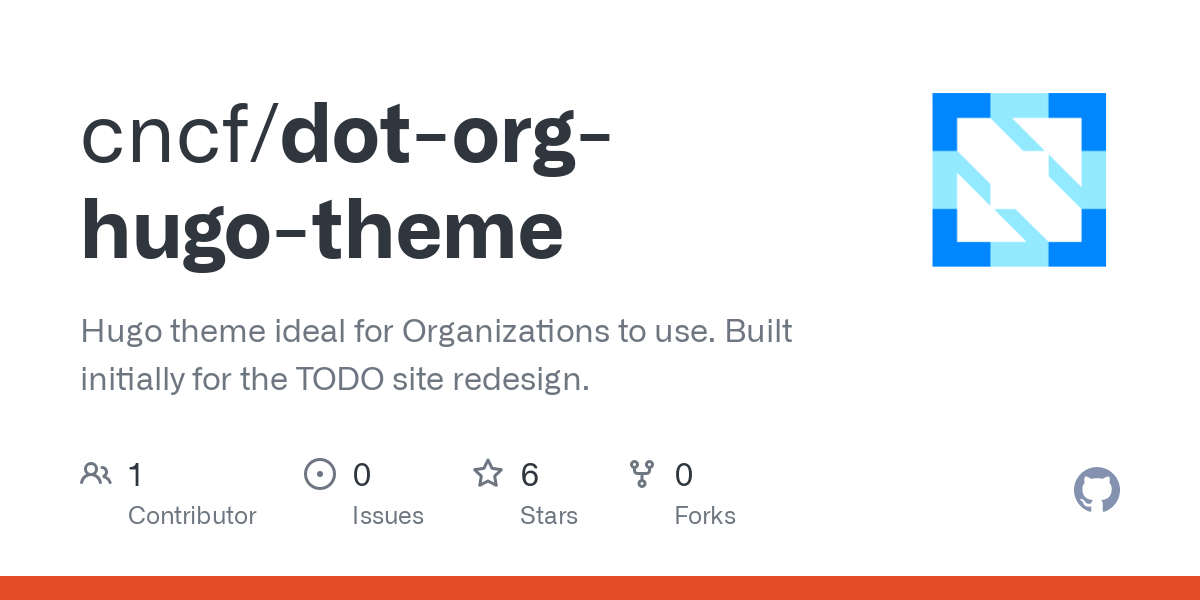
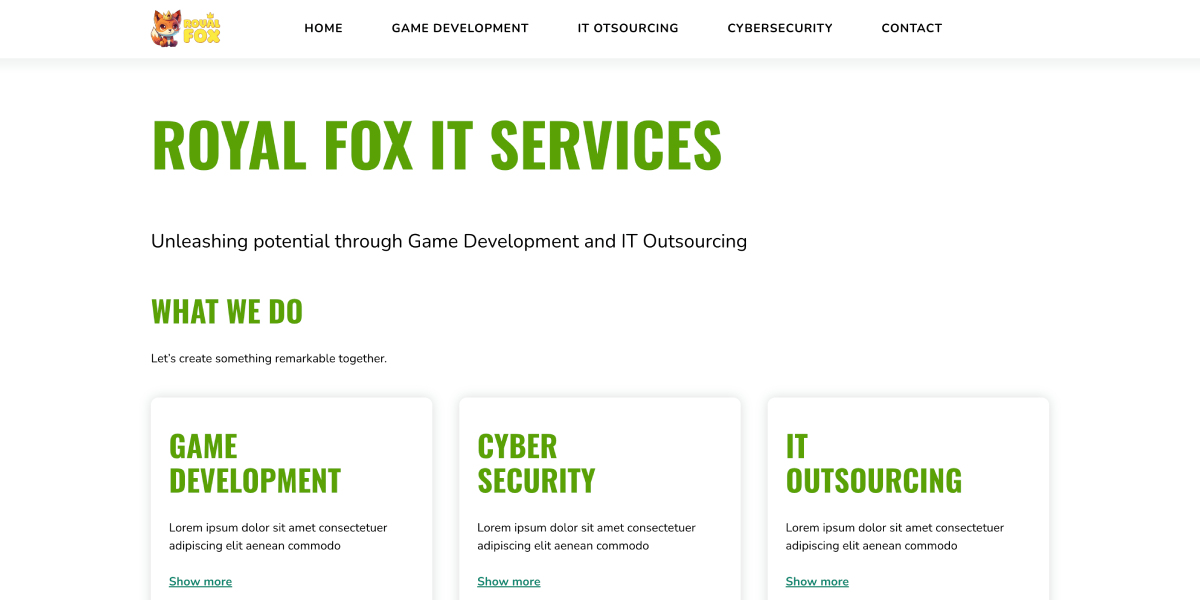
fix social post preview and no localhost

diff --git a/index.html b/index.html
@@ -7,7 +7,7 @@
     <meta charset="utf-8" />
     <meta name="viewport" content="width=device-width, initial-scale=1.0">
     <title>Royal Fox</title>
-    <meta name="description" content="A Home page Description." />
+    <meta name="description" content="Unleashing potential through Game Development and IT Outsourcing" />
 
     <link rel="preload" href="/fonts/nunito-v25-latin-regular.woff2" as="font" type="font/woff2" crossorigin>
 <link rel="preload" href="/fonts/oswald-v49-latin-700.woff2" as="font" type="font/woff2" crossorigin>
@@ -20,14 +20,14 @@
 
 
 <link rel="stylesheet" href="/css/styles.8cba1cbfbc162316e1fd87eb469a89c9bf2870089301d9d5fa5c666463652a7cacb61d6848488220eff5a8fac12e9343ade5d29a48822971cbbeb0df1238ccca.css" integrity="sha512-jLocv7wWIxbh/YfrRpqJyb8ocAiTAdnV&#43;lxmZGNlKnysth1oSEiCIO/1qPrBLpNDreXSmkiCKXHLvrDfEjjMyg==" media="all">
-<meta property="og:title" content="Home Page" />
-<meta property="og:description" content="A Home page Description." />
+<meta property="og:title" content="ROYAL FOX IT Services" />
+<meta property="og:description" content="Unleashing potential through Game Development and IT Outsourcing" />
 <meta property="og:type" content="website" />
 <meta property="og:url" content="/" /><meta property="og:image" content="/img/social-share.png" />
 
 <meta name="twitter:card" content="summary_large_image" />
-<meta name="twitter:image" content="/img/social-share.png" /><meta name="twitter:title" content="Home Page"/>
-<meta name="twitter:description" content="A Home page Description."/>
+<meta name="twitter:image" content="/img/social-share.png" /><meta name="twitter:title" content="ROYAL FOX IT Services"/>
+<meta name="twitter:description" content="Unleashing potential through Game Development and IT Outsourcing"/>
 
 
 <link rel="icon" href="/favicon.ico" sizes="32x32">
@@ -112,13 +112,12 @@
             
                 <header>
                     
-                    
+                    <h1 class="title">ROYAL FOX IT Services</h1>
                 </header>
-
             
             
             <div class="content">
-            <h1 id="royal-fox-it-services">ROYAL FOX IT Services</h1>
+            
 <p class="intro">
     Unleashing potential through Game Development and IT Outsourcing
 </p>
@@ -153,10 +152,38 @@
 
 </div>
 
+  
+    <article>
+      <h2><a href="/contact/">Conatct Us</a></h2>
+      <p>Get in touch Feel free to contact us anytime and we will get back to you as soon as possible. e-mail: info@royalfox.net </p>
+    </article>
+  
+    <article>
+      <h2><a href="/cybersecurity/">CyberSecurity</a></h2>
+      <p> Cyber Security Services Our team of certified cybersecurity experts employs the latest technologies and best practices to secure your systems, networks, and applications. From penetration testing and security audits to 24/7 monitoring and response, we provide the necessary defenses to ensure your operations are resilient against cyber threats. what is CyberSecurity? Play Video on YouTube </p>
+    </article>
+  
+    <article>
+      <h2><a href="/test/">Demo Elements Page</a></h2>
+      <p>111This is a demo page, designed to show you the various elements of the theme and how they sit together.
+It has a custom social image, which can be set in the frontmatter.
+Lorem ipsum dolor sit amet, consectetuer adipiscing elit. Aenean commodo ligula get dolor. Aenean massa. Cum sociis natoque penatibus et magnis dis parturient montes, nascetur ridiculus mus. Donec quam felis, ultricies nec, pellentesque eu, pretium quis, sem. Nulla consequat massa quis enim.</p>
+    </article>
+  
+    <article>
+      <h2><a href="/gamedev/">Game Development</a></h2>
+      <p>At Royal Fox, we specialize in delivering outstanding gaming experiences across iOS, Android, PC, and Web. From concept to launch, our expert team will bring your game ideas to life. Whether you&rsquo;re seeking end-to-end development or specific outsourcing services, Royal Fox is your premier partner in creating captivating games. Game Development Services Full-cycle Game Development Our expirience in full-cycle game development ensures that from an idea to the final product, every aspect of your game is crafted with precision and passion.</p>
+    </article>
+  
+    <article>
+      <h2><a href="/it-outsourcing/">IT Outsourcing</a></h2>
+      <p>Beyond gaming, Royal Fox excels in IT outsourcing, providing businesses with the technological backbone they need to thrive in today&rsquo;s digital world. From software development to system administration, we offer a range of IT services that allow our clients to focus on their core operations while we ensure their tech runs seamlessly. IT Outsourcing Services Agile Teams on Demand Scale your development capacity quickly and efficiently with our agile teams on demand.</p>
+    </article>
+  
+
             
             </div>
             
-
         </section><footer class="footer">
     <div class="container wrap">
 
